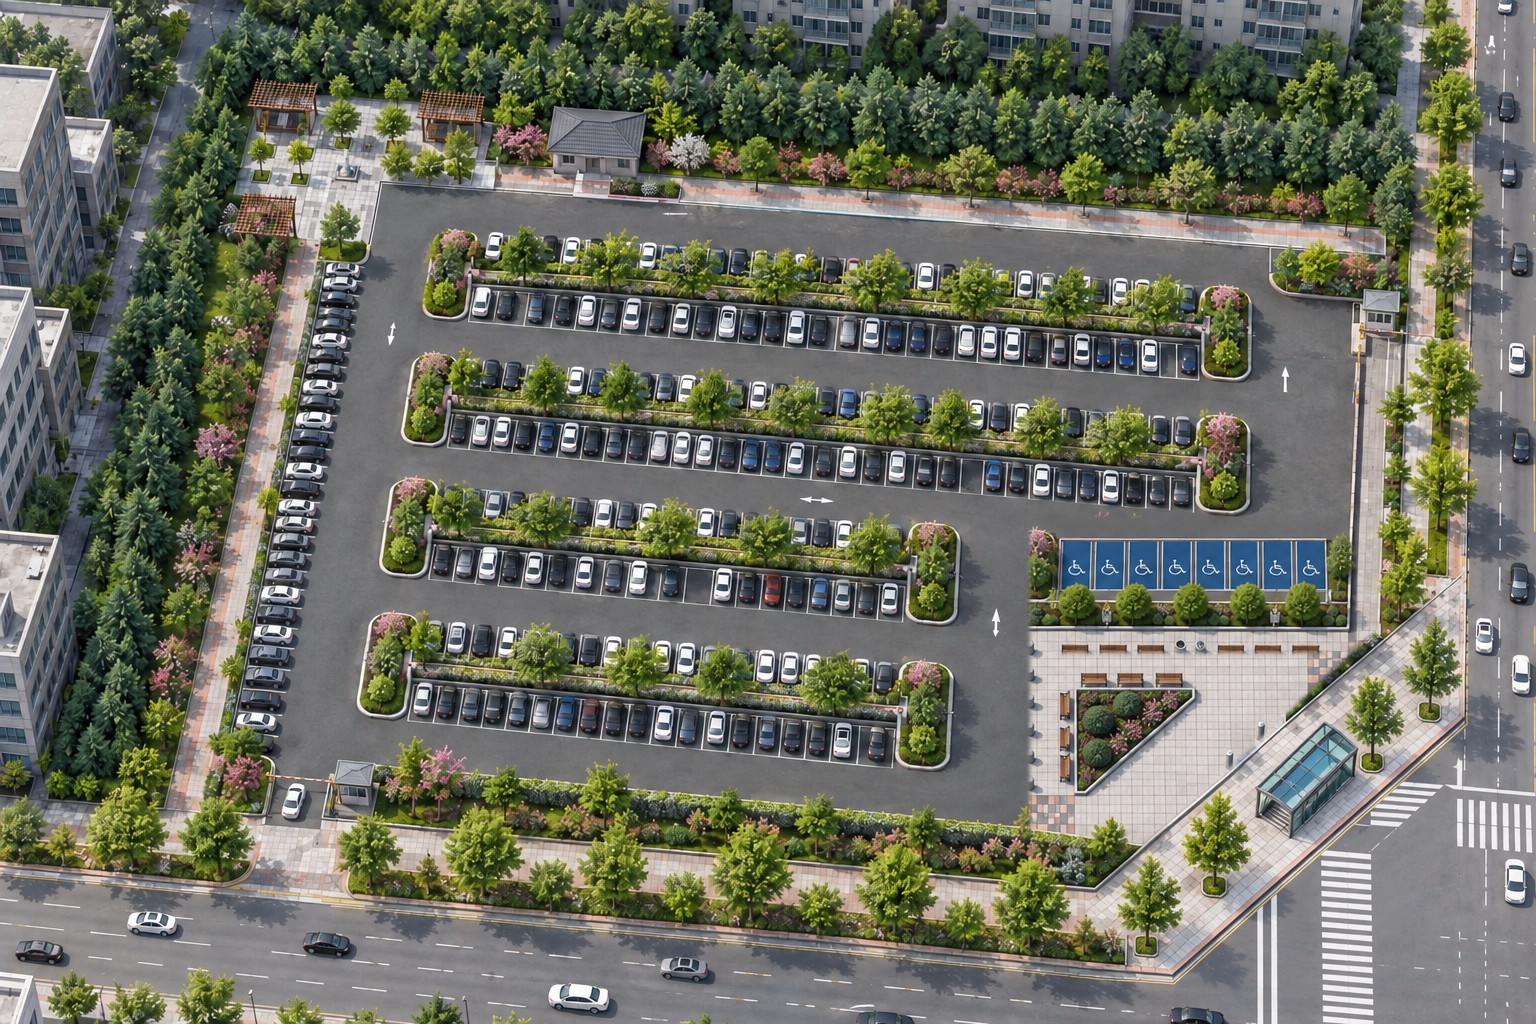
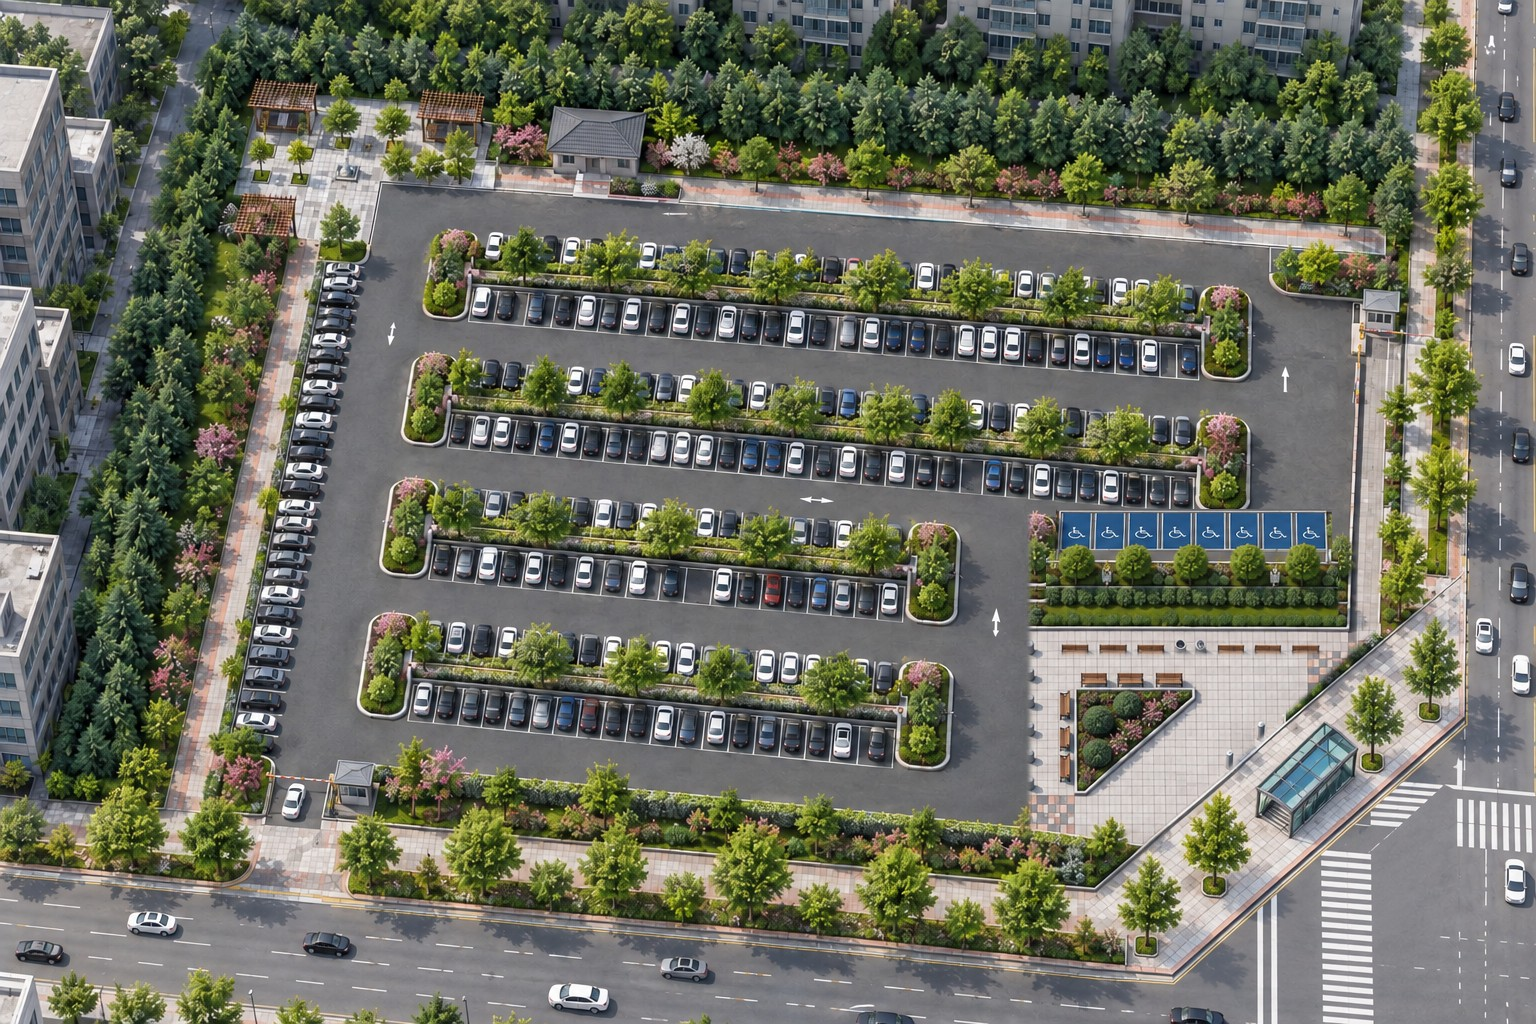
444 조감도: 장애인 주차칸을 옆 주차열과 일렬로, 프롬프트 코드 블록 줄바꿈
- 장애인 8칸이 3번째 주차열 위쪽 칸보다 낮고 깊게 그려져 일렬이 아니었다
  (사용자 지적, 도면은 같은 줄). 칸 덩어리를 같은 앞선(y 510)·같은 깊이로 옮기고
  녹지대·서쪽 끝 화단도 함께 올린 뒤, 광장 쪽에 생긴 틈만 마스크로 채웠다(5회차)
- 기출 도면 자료의 코드 블록(pre)이 줄바꿈 없이 화면 밖으로 넘쳤다 —
  pre-wrap 으로 접고, 글자 크기·줄 간격을 코드답게 줄였다

Changed region(s): [[0.6562, 0.5, 0.875, 0.625]]

diff --git a/templates/gisa/essay_work.html b/templates/gisa/essay_work.html
@@ -253,6 +253,11 @@
     .note-md th, .note-md td { border: 1px solid #d3ddd6; padding: 5px 10px; }
     .note-md th { background: #e7efe9; }
     .note-md img { max-width: 100%; }
+    /* 코드 블록(조감도 프롬프트 등) — 긴 줄이 화면 밖으로 넘치지 않게 접어 보인다 */
+    .note-md pre { white-space: pre-wrap; overflow-wrap: anywhere; max-width: 100%; margin: 8px 0 14px;
+        background: #f6f8f7; border: 1px solid #dfe7e2; border-radius: 8px; padding: 10px 14px;
+        font-size: 0.8rem; line-height: 1.55; color: #2b3a31; }
+    .note-md pre code { font-family: ui-monospace, Menlo, Consolas, monospace; white-space: inherit; }
     @media (max-width: 600px) { .tk-meta { margin-left: 0; flex-basis: 100%; } }
 </style>
 {% endblock %}
